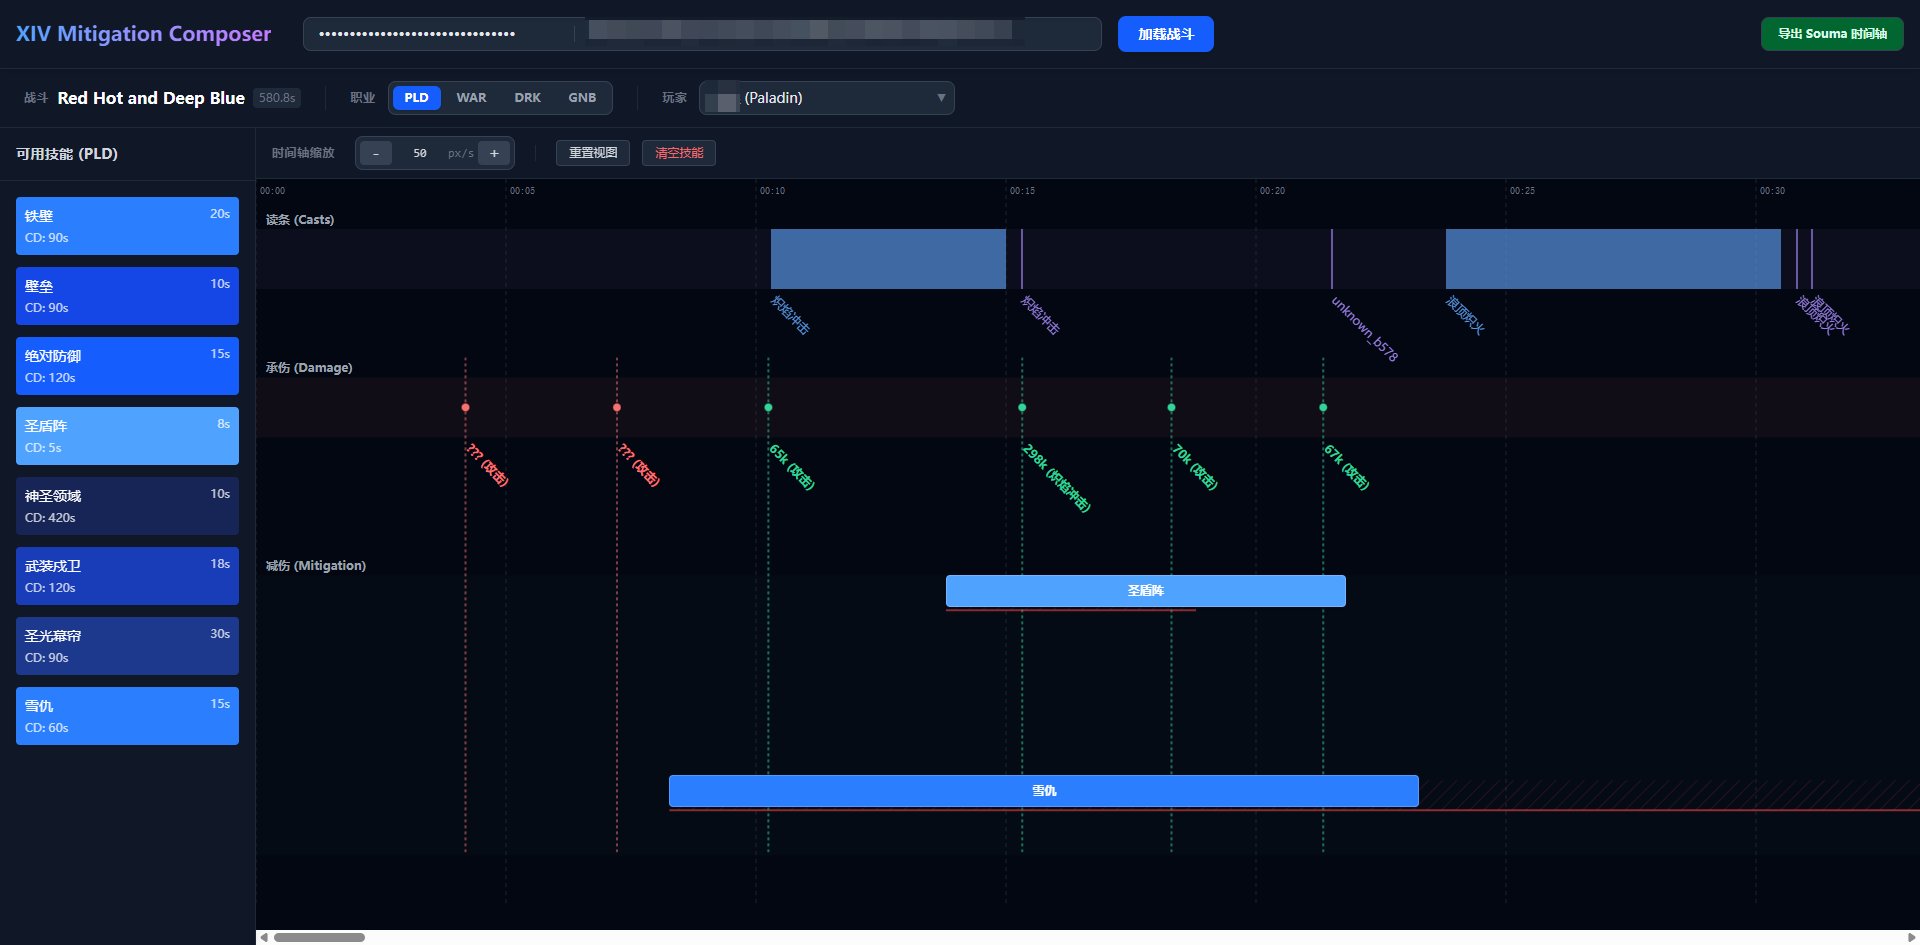
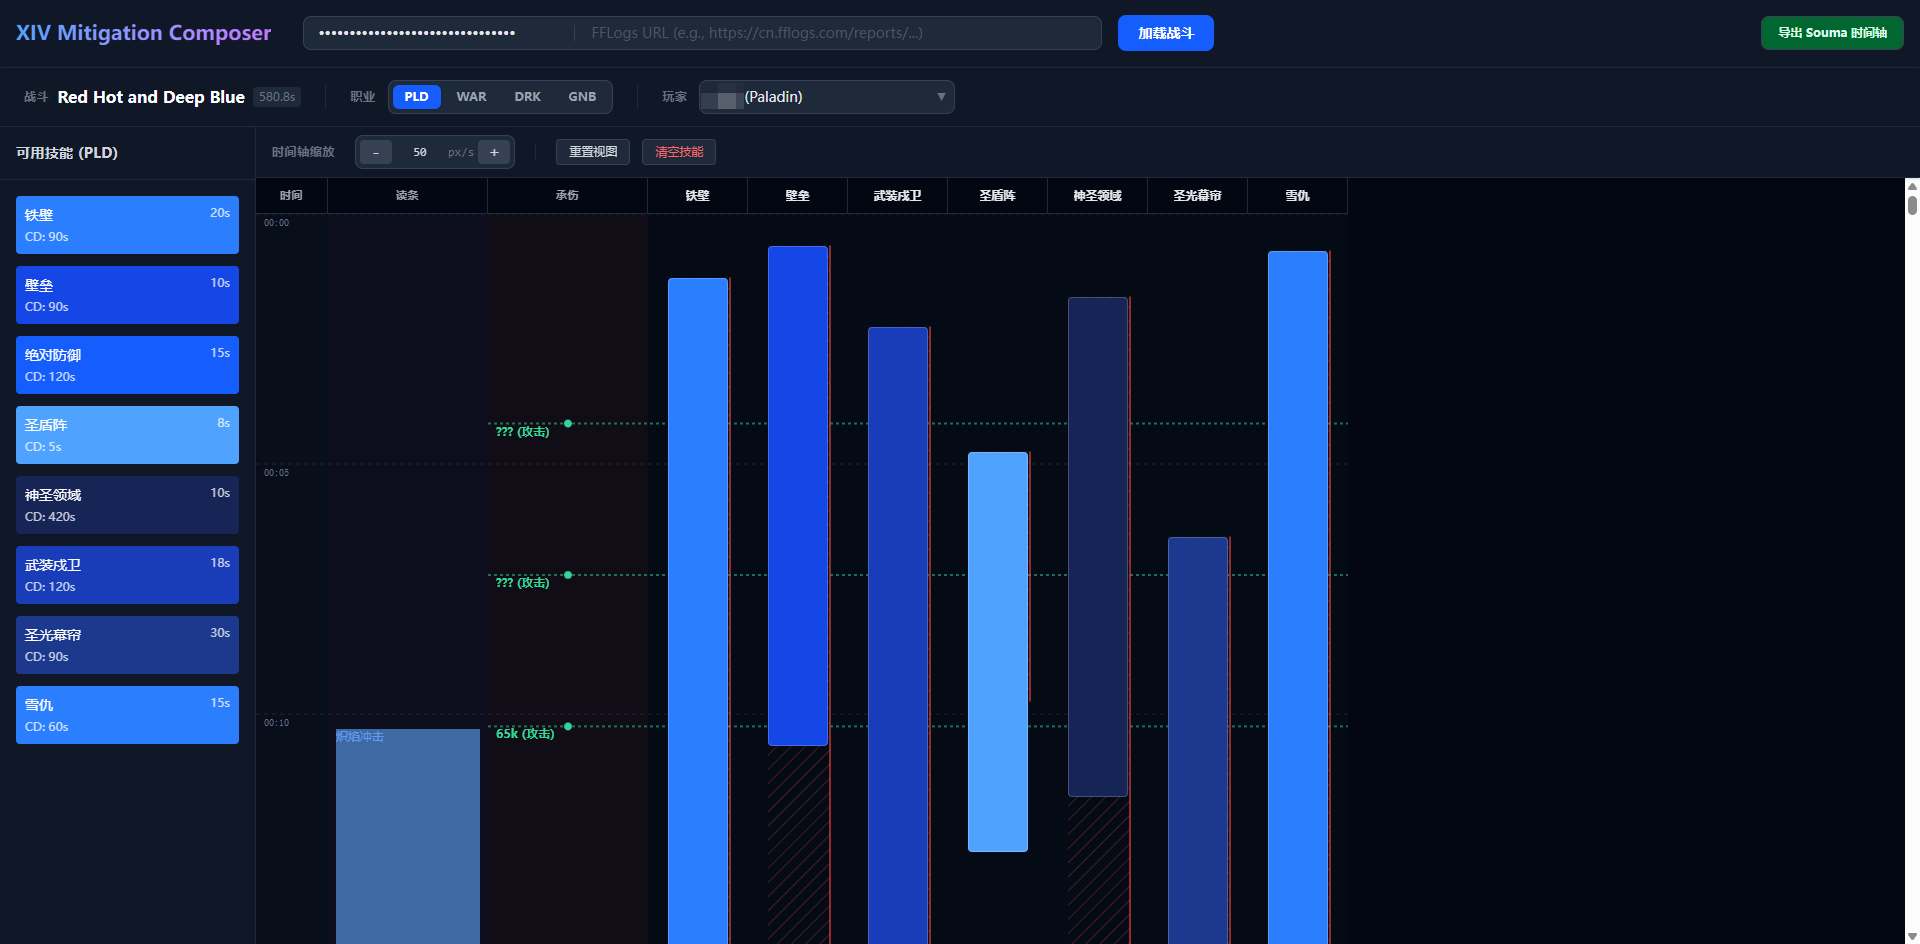
doc: 文档更新

diff --git a/src/lib/fflogs/exporter.ts b/src/lib/fflogs/exporter.ts
@@ -1,3 +1,5 @@
+// 修改自 https://github.com/Souma-Sumire/ff14-overlay-vue/blob/main/src/components/timeline/FflogsImport.vue
+
 import { getFactoryRule } from './compat/timelineSpecialRules';
 
 interface ExportableEvent {

diff --git a/src/lib/fflogs/compat/timelineSpecialRules.ts b/src/lib/fflogs/compat/timelineSpecialRules.ts
@@ -1,3 +1,5 @@
+// 来自 https://github.com/Souma-Sumire/ff14-overlay-vue/blob/main/src/services/timelineSpecialRules.ts
+
 import type { FFlogsStance, FFlogsType } from './types';
 
 // 技能 ID 与时间窗规则映射

diff --git a/README.md b/README.md
@@ -10,8 +10,7 @@
 
 - **可视化时间轴**：直观地查看和编辑战斗时间轴。
 - **拖拽操作**：使用 React dnd-kit 实现流畅的拖拽体验。
-- **状态管理**：使用 Zustand 进行高效的状态管理。
-- **现代化 UI**：基于 Tailwind CSS 构建的现代化界面。
+- **界面友好**：沿袭传统excel排轴界面，竖版操作；减伤覆盖高亮，直观准确。
 - **Souma时间轴之友**：支持将排好的轴直接导出为 Souma 时间轴格式。
 
 ![Preview](assets/screenshot.png)
@@ -21,8 +20,7 @@
 >
 > 本项目目前处于非常早期的开发阶段，功能尚不完善：
 >
-> - 仅支持基础的减伤覆盖预览功能；
-> - 目前仅支持 4 坦克职业 (PLD, WAR, DRK, GNB) 的个人减伤；
+> - 目前仅支持 4 坦克职业 (PLD, WAR, DRK, GNB) 的减伤；
 > - 更多功能正在开发中；
 > - 可能具有很多影响使用的BUG，并且所有功能均未测试。
 
@@ -48,9 +46,9 @@
 
 3.  **排轴操作**：
     - **添加减伤**：从左侧技能栏将减伤技能拖拽到右侧时间轴上。
-    - **调整位置**：在时间轴上左右拖拽减伤条以调整释放时间。
+    - **调整位置**：在时间轴上左右拖拽减伤条以调整释放时间。你也可以右键单击减伤事件来手动输入时间。
     - **缩放视图**：按住 `Alt` + 滚轮 可缩放时间轴视图。
-    - **导出为 Souma时间轴**：点击 **导出为 Souma时间轴** 按钮，将排好的轴导出为 Souma 时间轴格式。
+    - **导出为 Souma 时间轴**：点击 `导出 Souma 时间轴` 按钮，将排好的轴导出为 Souma 时间轴格式。
 
 ## 开发
 
@@ -77,3 +75,7 @@ bun run dev
 ```bash
 bun run build
 ```
+
+## 致谢
+
+本项目的启动在很大程度上受到了 @Souma-Sumire 的项目 [ff14-overlay-vue](https://github.com/Souma-Sumire/ff14-overlay-vue) 以及相关 [Issue](https://github.com/Souma-Sumire/ff14-overlay-vue/issues/2) 的启发；实现过程中亦参考并借鉴了 @Souma-Sumire 的时间轴处理代码。与此同时，开发期间也得到了 @Loskh 提供的多项设计提案、耐心协助与代码贡献。在此谨向二位致以诚挚的感谢。
